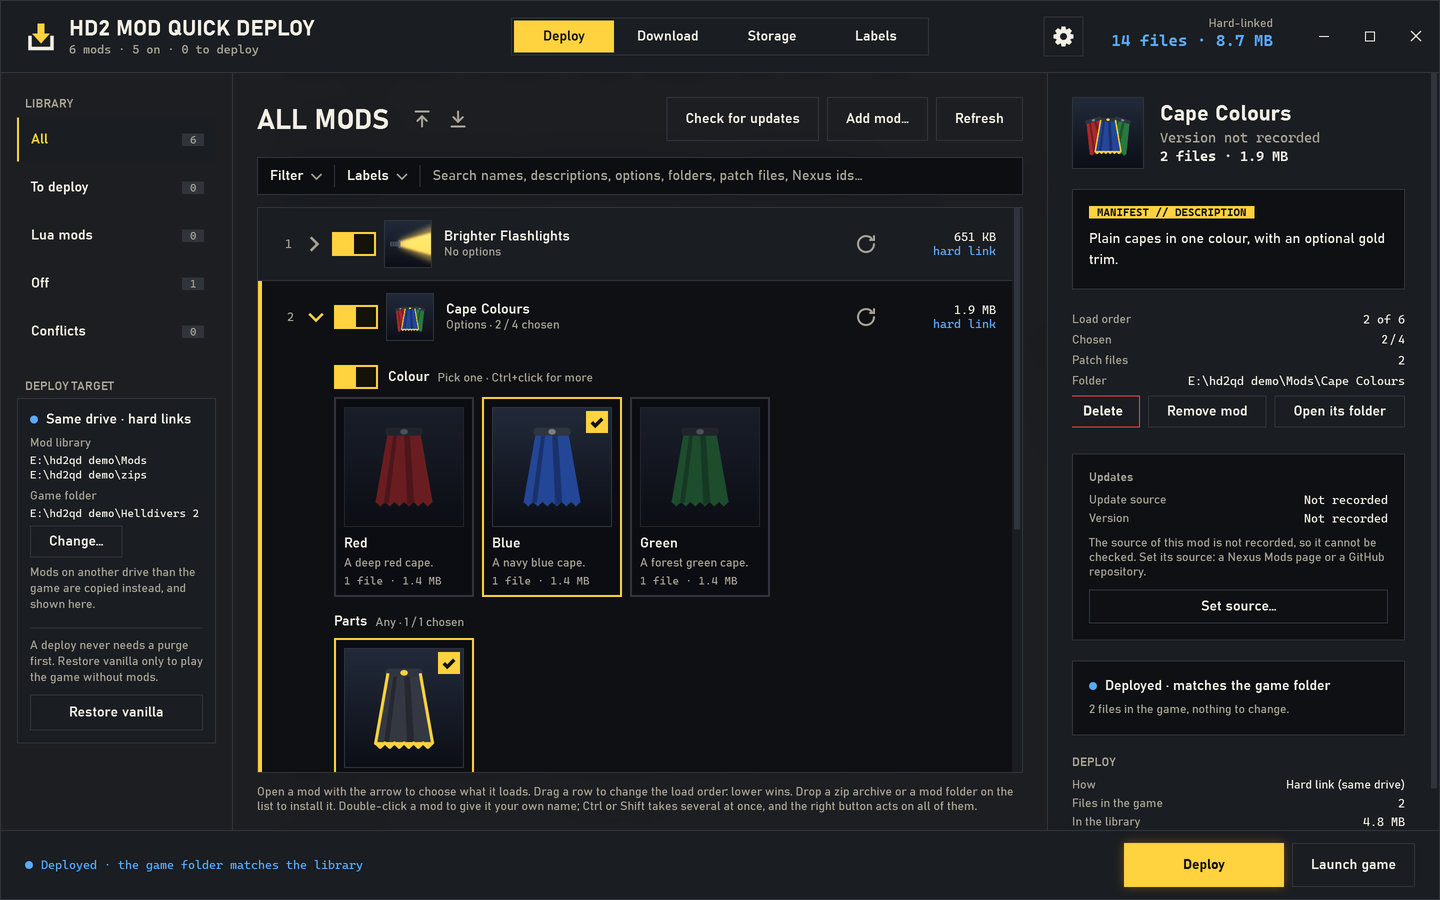
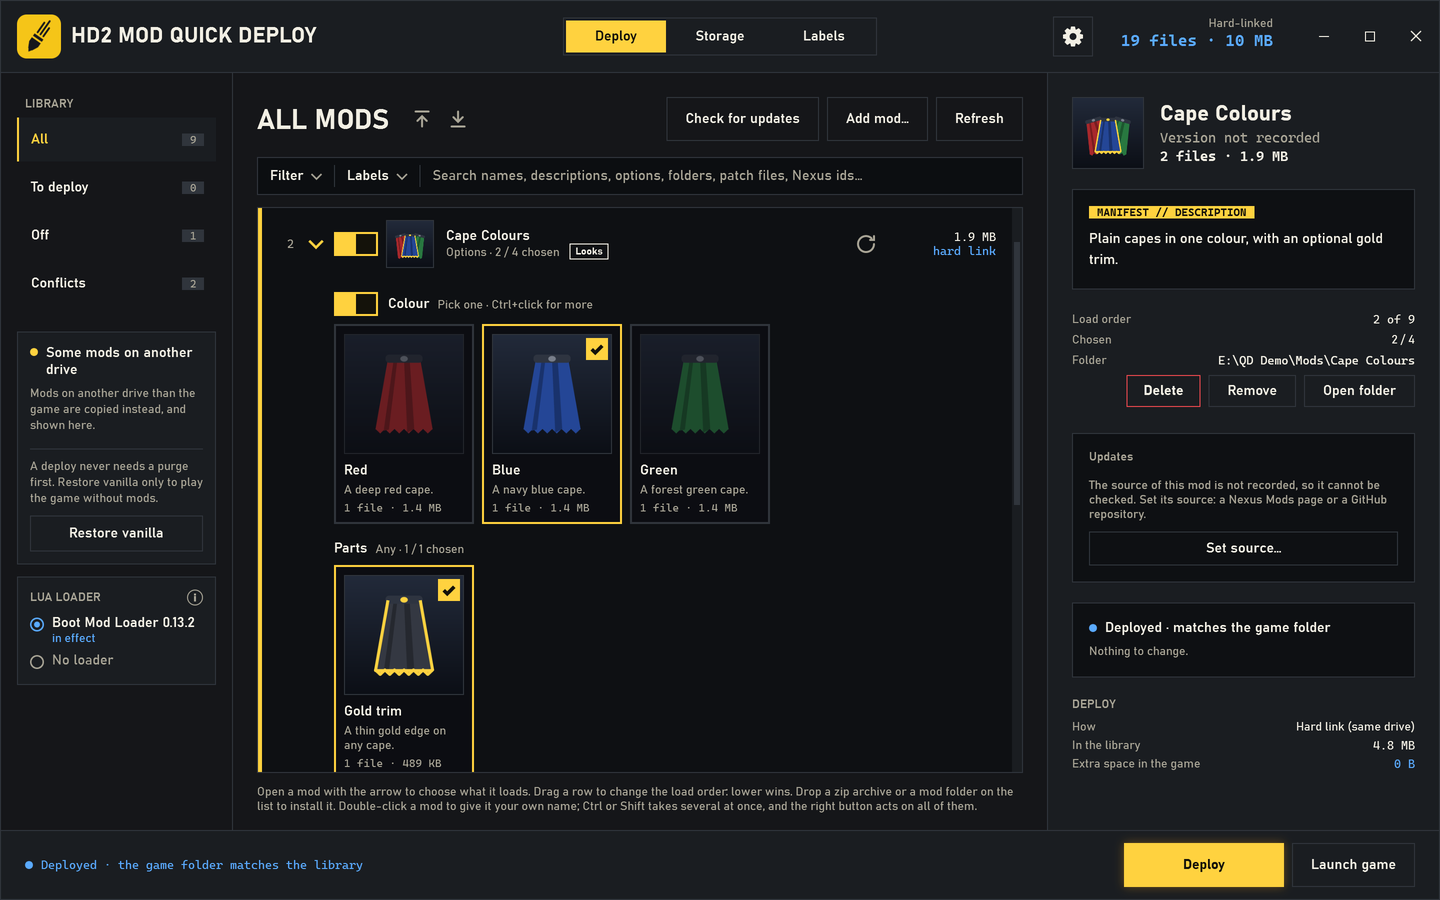
README pictures retaken on a demo library; the deploy target card's title wraps

diff --git a/gui/QuickDeploy/MainWindow.xaml.cs b/gui/QuickDeploy/MainWindow.xaml.cs
@@ -2181,8 +2181,12 @@ namespace QuickDeploy
             var card = new StackPanel();
             int far = st.Mods.Count(m => m.Exists && !m.SameDrive);
             string state = far == 0 ? "target_link" : far == st.Mods.Count(m => m.Exists) ? "target_copy" : "target_mixed";
-            var head = new StackPanel { Orientation = Orientation.Horizontal };
-            head.Children.Add(new Ellipse { Width = 8, Height = 8, Fill = B(far == 0 ? "Blue" : "Yellow"), Margin = new Thickness(0, 0, 8, 0) });
+            // the dot, then the title in the width that is left: in a horizontal StackPanel it had no
+            // width to wrap in, and a long title was cut ("Some mods on another d", 2026-10-26)
+            var head = new DockPanel();
+            var dot = new Ellipse { Width = 8, Height = 8, Fill = B(far == 0 ? "Blue" : "Yellow"), Margin = new Thickness(0, 3.5, 8, 0), VerticalAlignment = VerticalAlignment.Top };
+            DockPanel.SetDock(dot, Dock.Left);
+            head.Children.Add(dot);
             head.Children.Add(new TextBlock { Text = Texts.Get(state), FontWeight = FontWeights.SemiBold, TextWrapping = TextWrapping.Wrap });
             card.Children.Add(head);
             // no folders here: the Storage page shows them and changes them (the user, 2026-10-25)

diff --git a/core/LuaMods.cs b/core/LuaMods.cs
@@ -625,8 +625,11 @@ namespace Hd2Mod
             public List<Started> Mods = new List<Started>();
         }
 
+        /// <summary>The game's own folder of logs and dumps. HD2QD_GAME_LOGS names another, for a
+        /// demo library's pictures, which must show none of the player's sessions or crashes.</summary>
         public static string GameFolder =>
-            Path.Combine(Environment.GetFolderPath(Environment.SpecialFolder.ApplicationData), "Arrowhead", "Helldivers2");
+            Environment.GetEnvironmentVariable("HD2QD_GAME_LOGS") is string said && said.Length > 0 ? said
+            : Path.Combine(Environment.GetFolderPath(Environment.SpecialFolder.ApplicationData), "Arrowhead", "Helldivers2");
 
         /// <summary>Tests only: the folder of the game's logs and dumps.</summary>
         public static string GameFolderOverride;
